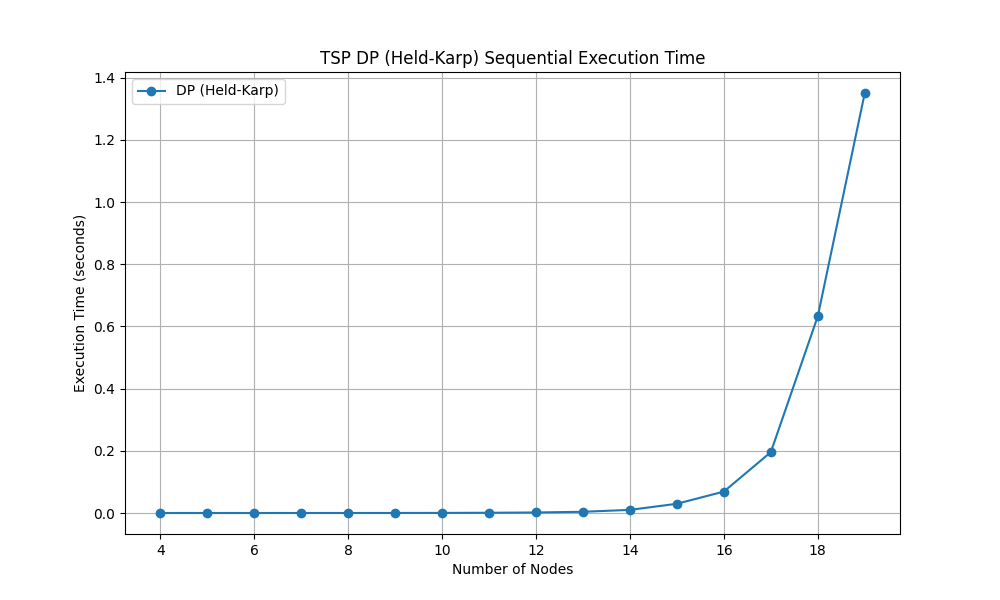
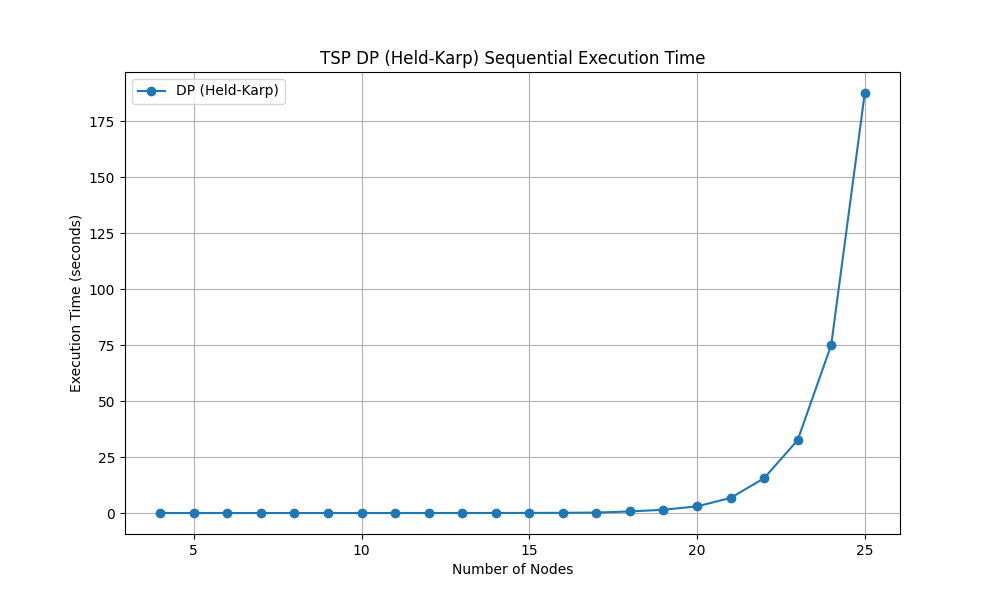
plots

diff --git a/Sequential/DP/Example.c b/Sequential/DP/Example.c
@@ -1,12 +1,12 @@
 #include <stdio.h>
 #include <stdlib.h>
-#include <time.h>
 #include <limits.h>
+#include <time.h>
 
-#define N 4
+#define MAX_V 40 
 #define MAX 1000000
 
-int dist[N + 1][N + 1] = {
+int dist[MAX_V + 1][MAX_V + 1] = {
     {0, 0, 0, 0, 0},
     {0, 0, 10, 15, 20},
     {0, 10, 0, 25, 25},
@@ -14,56 +14,67 @@ int dist[N + 1][N + 1] = {
     {0, 20, 25, 30, 0},
 };
 
-int memo[N + 1][1 << (N + 1)];
-
 int min(int a, int b) {
     return (a < b) ? a : b;
 }
 
-void generateGraph() {
-    for (int i = 1; i <= N; i++) {
-        for (int j = 1; j <= N; j++) {
-            if (i != j) {
-                dist[i][j] = rand() % 100 + 1;  
-            } else {
-                dist[i][j] = 0; 
-            }
-        }
+void saveExecutionTime(int n, double exec_time) {
+    FILE *fptr;
+    fptr = fopen("tsp_dp_execution_times.csv", "a");
+    if (fptr == NULL) {
+        printf("Error opening file!");
+        exit(1);
     }
+    fprintf(fptr, "%d,%f\n", n, exec_time);
+    fclose(fptr);
 }
 
-int tsp(int i, int mask) {
-    if (mask == ((1 << i) | 3))
+// Dynamic Programming function for TSP
+int fun(int i, int mask, int n, int **memo) {
+    if (mask == ((1 << i) | 3)) 
         return dist[1][i];
-    if (memo[i][mask] != 0)
+
+    if (memo[i][mask] != 0) 
         return memo[i][mask];
+
     int res = MAX;
-    for (int j = 1; j <= N; j++)
-        if ((mask & (1 << j)) && j != i && j != 1)
-            res = min(res, tsp(j, mask & (~(1 << i))) + dist[j][i]);
+    for (int j = 1; j <= n; j++) {
+        if ((mask & (1 << j)) && j != i && j != 1) {
+            res = min(res, fun(j, mask & (~(1 << i)), n, memo) + dist[j][i]);
+        }
+    }
     return memo[i][mask] = res;
 }
 
 int main() {
-    srand(time(NULL));
-    // generateGraph();
-    for (int i = 0; i <= N; i++) {
-        for (int j = 0; j < (1 << (N + 1)); j++) {
-            memo[i][j] = 0;
+    FILE *fptr = fopen("tsp_dp_execution_times.csv", "w");
+    fprintf(fptr, "Nodes,Execution_Time\n");
+    fclose(fptr);
+
+    int n = 4; 
+    int **memo = (int **)malloc((n + 1) * sizeof(int *));
+    for (int i = 0; i <= n; i++) {
+        memo[i] = (int *)malloc((1 << (n + 1)) * sizeof(int));
+        for (int j = 0; j < (1 << (n + 1)); j++) {
+            memo[i][j] = 0;  
         }
     }
 
     clock_t start = clock();
-
     int ans = MAX;
-    for (int i = 1; i <= N; i++)
-        ans = min(ans, tsp(i, (1 << (N + 1)) - 1) + dist[i][1]);
-
+    for (int i = 1; i <= n; i++) {
+        ans = min(ans, fun(i, (1 << (n + 1)) - 1, n, memo) + dist[i][1]);
+    }
     clock_t end = clock();
     double exec_time = (double)(end - start) / CLOCKS_PER_SEC;
 
-    printf("For N = %d, the cost of most efficient tour = %d\n", N, ans);
-    printf("Execution time: %f seconds\n", exec_time);
+    printf("Nodes: %d, Execution Time: %f seconds, Min Cost: %d\n", n, exec_time, ans);
+    saveExecutionTime(n, exec_time);
+
+    for (int i = 0; i <= n; i++) {
+        free(memo[i]);
+    }
+    free(memo);
 
     return 0;
 }

diff --git a/Sequential/DP/tsp_dp_sequential.c b/Sequential/DP/tsp_dp_sequential.c
@@ -1,22 +1,18 @@
-//Time Complexity: O(N^2 * 2^N )
-//Space Complexity: O(N * 2^N)
-
 #include <stdio.h>
 #include <stdlib.h>
 #include <limits.h>
 #include <time.h>
 
-#define MAX_V 19 
+#define MAX_V 25
 #define MAX 1000000
 
 int dist[MAX_V + 1][MAX_V + 1];
-int memo[MAX_V + 1][1 << (MAX_V + 1)];
 
 int min(int a, int b) {
     return (a < b) ? a : b;
 }
 
-//Nested loop can be collapsed using collapse(2)
+
 void generateGraph(int n) {
     for (int i = 1; i <= n; i++) {
         for (int j = 1; j <= n; j++) {
@@ -40,48 +36,55 @@ void saveExecutionTime(int n, double exec_time) {
     fclose(fptr);
 }
 
-//can parallize this using tasks
-int fun(int i, int mask, int n)
-{
-    if (mask == ((1 << i) | 3))
+// Dynamic Programming function for TSP
+int fun(int i, int mask, int n, int **memo) {
+    if (mask == ((1 << i) | 3)) 
         return dist[1][i];
-    if (memo[i][mask] != 0)
+
+    if (memo[i][mask] != 0) 
         return memo[i][mask];
+
     int res = MAX;
-    for (int j = 1; j <= n; j++)
-        if ((mask & (1 << j)) && j != i && j != 1)
-            res = min(res, fun(j, mask & (~(1 << i)), n) + dist[j][i]);
+    for (int j = 1; j <= n; j++) {
+        if ((mask & (1 << j)) && j != i && j != 1) {
+            res = min(res, fun(j, mask & (~(1 << i)), n, memo) + dist[j][i]);
+        }
+    }
     return memo[i][mask] = res;
 }
 
-int main()
-{
+int main() {
     srand(time(NULL)); 
     FILE *fptr = fopen("tsp_dp_execution_times.csv", "w");
     fprintf(fptr, "Nodes,Execution_Time\n");
     fclose(fptr);
+
     for (int n = 4; n <= MAX_V; n++) {
         generateGraph(n);
-        //can use parrallel for region for this loop
+
+        int **memo = (int **)malloc((n + 1) * sizeof(int *));
         for (int i = 0; i <= n; i++) {
+            memo[i] = (int *)malloc((1 << (n + 1)) * sizeof(int));
             for (int j = 0; j < (1 << (n + 1)); j++) {
-                memo[i][j] = 0;
+                memo[i][j] = 0;  
             }
         }
 
         clock_t start = clock();
-
-        //can use parallel reduction clause here 
         int ans = MAX;
-        for (int i = 1; i <= n; i++)
-            ans = min(ans, fun(i, (1 << (n + 1)) - 1, n) + dist[i][1]);
-
+        for (int i = 1; i <= n; i++) {
+            ans = min(ans, fun(i, (1 << (n + 1)) - 1, n, memo) + dist[i][1]);
+        }
         clock_t end = clock();
         double exec_time = (double)(end - start) / CLOCKS_PER_SEC;
-    
-        printf("Nodes: %d, Execution Time: %f seconds, Min Cost: %d\n", n, exec_time, ans);
 
+        printf("Nodes: %d, Execution Time: %f seconds, Min Cost: %d\n", n, exec_time, ans);
         saveExecutionTime(n, exec_time);
+
+        for (int i = 0; i <= n; i++) {
+            free(memo[i]);
+        }
+        free(memo);
     }
 
     return 0;

diff --git a/Sequential/plot_comparison.py b/Sequential/plot_comparison.py
@@ -17,7 +17,7 @@ plt.plot(data_dp['Nodes'], data_dp['Execution_Time'], marker='o', label='DP (Hel
 
 plt.xlabel('Number of Nodes')
 plt.ylabel('Execution Time (seconds)')
-plt.title('TSP Execution Times: Brute Force vs Dynamic Programming')
+plt.title('TSP Sequential Execution Times: Brute Force vs Dynamic Programming')
 plt.grid(True)
 plt.legend()
 
